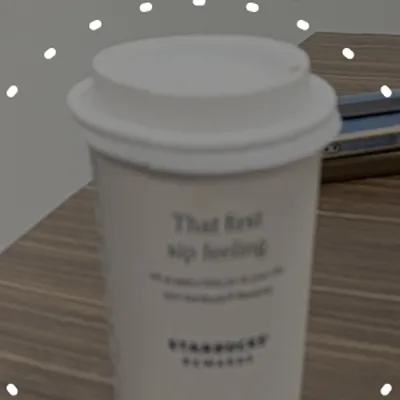
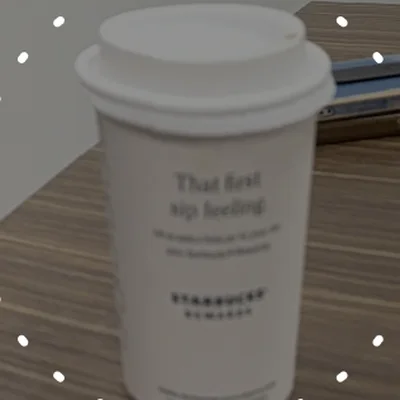
Moment privacy: closer crop of the cup, without the lens dots

diff --git a/projects/moment.html b/projects/moment.html
@@ -211,7 +211,7 @@
           <b>01 · Asks first</b><h3>Only inside a reset you started</h3><p>The camera looks once, and only with your permission.</p>
         </li>
         <li>
-          <div class="mom-priv__v mom-priv__v--obj"><img src="../assets/projects/moment/priv-object.webp" alt="One object picked out: a white coffee cup" width="400" height="400" loading="lazy"></div>
+          <div class="mom-priv__v mom-priv__v--obj"><img src="../assets/projects/moment/priv-object.webp?v=2" alt="One object picked out: a white coffee cup" width="400" height="400" loading="lazy"></div>
           <b>02 · Objects only</b><h3>A thing, never a person</h3><p>MOMO looks for one object or colour. No faces, no names.</p>
         </li>
         <li>
